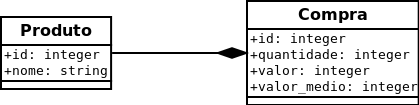
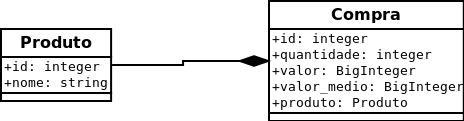
udpated README, created model 'Compra'

Changed region(s): [[0.0, 0.0, 1.0, 1.0]]

diff --git a/mercado/estoque/migrations/0002_compra.py b/mercado/estoque/migrations/0002_compra.py
@@ -1,0 +1,24 @@
+# Generated by Django 2.0 on 2017-12-25 16:48
+
+from django.db import migrations, models
+import django.db.models.deletion
+
+
+class Migration(migrations.Migration):
+
+    dependencies = [
+        ('estoque', '0001_initial'),
+    ]
+
+    operations = [
+        migrations.CreateModel(
+            name='Compra',
+            fields=[
+                ('id', models.AutoField(auto_created=True, primary_key=True, serialize=False, verbose_name='ID')),
+                ('quantidade', models.IntegerField()),
+                ('valor', models.BigIntegerField()),
+                ('valor_medio', models.BigIntegerField()),
+                ('produto', models.ForeignKey(on_delete=django.db.models.deletion.CASCADE, to='estoque.Produto')),
+            ],
+        ),
+    ]

diff --git a/mercado/estoque/models.py b/mercado/estoque/models.py
@@ -3,7 +3,14 @@ from django.db import models
 class Produto(models.Model):
     nome = models.CharField(max_length=300)
 
-
     def __str__(self):
         return self.nome
 
+class Compra(models.Model):
+    quantidade = models.IntegerField()
+    valor = models.BigIntegerField()
+    valor_medio = models.BigIntegerField()
+    produto = models.ForeignKey(Produto, on_delete=models.CASCADE)
+
+    def __str__(self):
+        return "%s %s" % (self.quantidade, self.produto.nome)

diff --git a/mercado/estoque/admin.py b/mercado/estoque/admin.py
@@ -1,4 +1,5 @@
 from django.contrib import admin
-from estoque.models import Produto
+from estoque.models import Produto, Compra
 
 admin.site.register(Produto)
+admin.site.register(Compra)

diff --git a/README.md b/README.md
@@ -1,10 +1,16 @@
 # Desafio WPensar BACK-END
 Desenvolvido por Gustavo Pergola
 Prazo: 29/12 11:59
+**Trello:** https://trello.com/b/TOzbvggQ/estoque-wpensar
 
 ## Tecnologias utilizadas
 * Python 3.5.2
 * Django 2.0
+
+## Obeservações sobre tomadas de decisão 
+
+Foi escolhido o tipo BigInteger para suportar o dinheiro, manipulando com divisões ou multiplicações por 100.
+Tal escolha permite a simplicidade do projeto além de garantir comprar com valores de alguns trilhões, cobrindo todos casos possíveis.
 
 ## Requisitos
 
